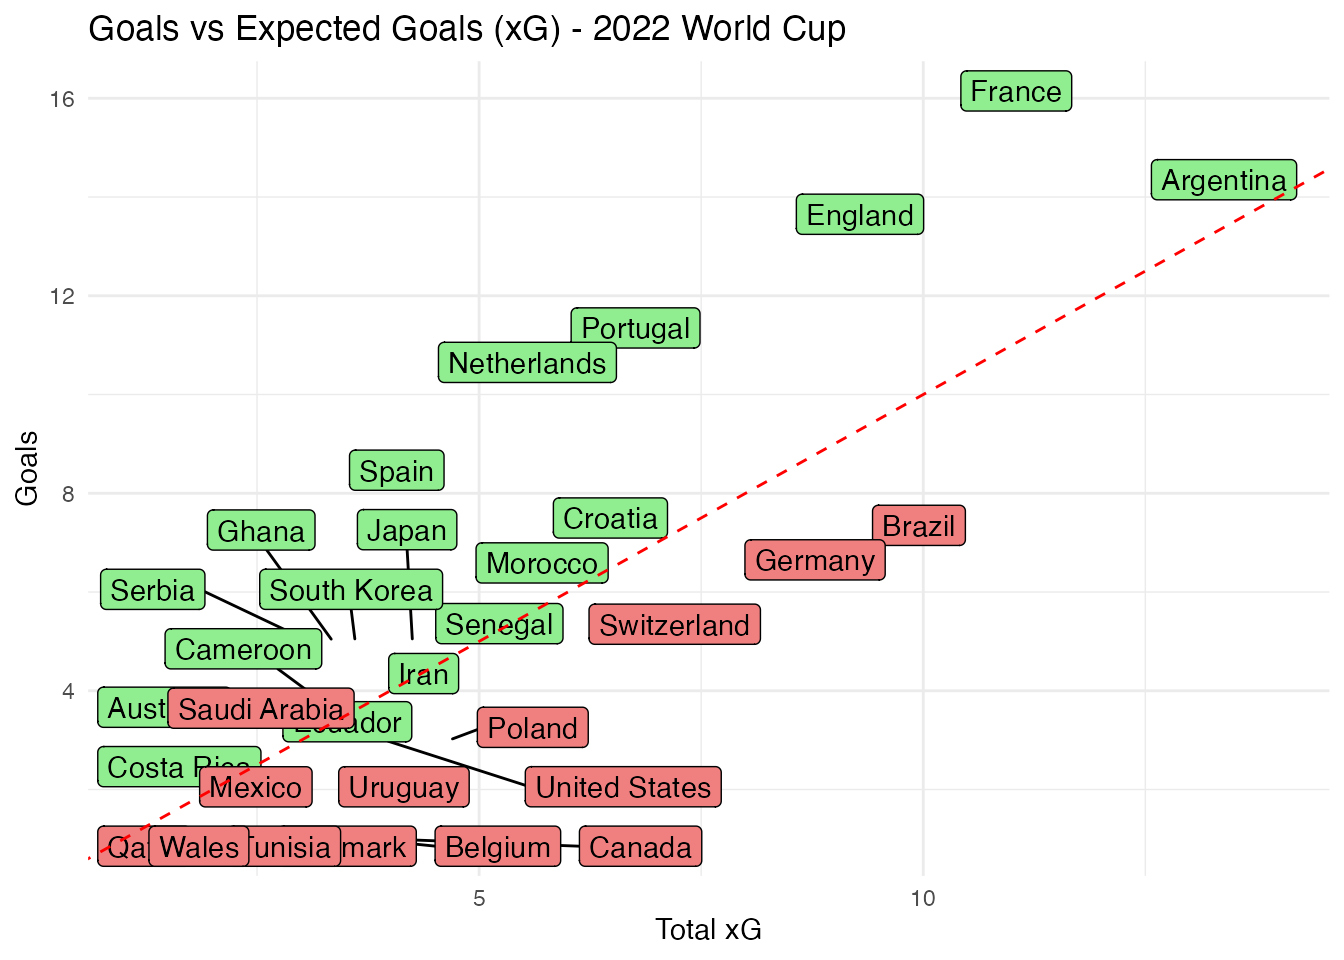
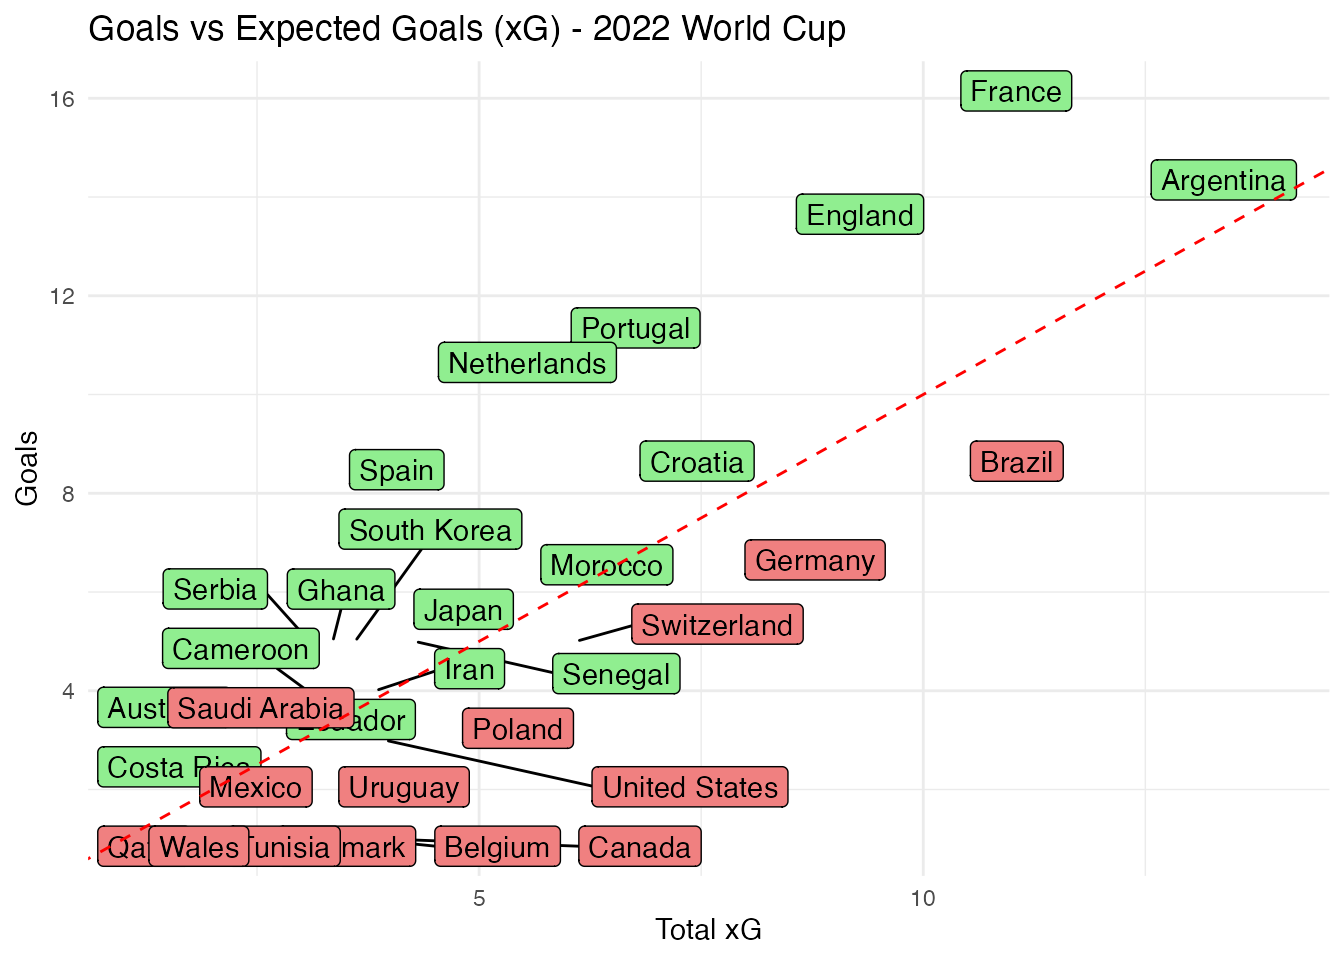
refactor: make some visual adjustments

diff --git a/assets/styles.scss b/assets/styles.scss
@@ -10,3 +10,17 @@
 .navbar .bi-translate + .menu-text {
   font-weight: 600;
 }
+
+.navbar-brand .navbar-logo {
+  height: 36px;
+  max-height: 36px;
+  border-radius: 6px;
+}
+
+div.quarto-post .listing-categories {
+  margin-top: 0.5rem;
+
+  .listing-category {
+    font-size: 0.55em;
+  }
+}

diff --git a/README.md b/README.md
@@ -1,4 +1,4 @@
-# Dois-Zero · Two-Nil
+# 2–0 · Two-Nil
 
 Blog de análise de dados de futebol, principalmente em R, feito com
 [Quarto](https://quarto.org). Bilíngue: português (padrão) e inglês.
@@ -9,12 +9,12 @@ Blog de análise de dados de futebol, principalmente em R, feito com
 ## Estrutura
 
 ```
-_quarto.yml          site em pt-BR (Dois-Zero) → _site/
+_quarto.yml          site em pt-BR (2–0) → _site/
 index.qmd            listagem de posts
 about.qmd
 posts/<slug>/index.qmd
 en/
-  _quarto.yml        site em inglês (Two-Nil) → _site/en/
+  _quarto.yml        site em inglês (2–0) → _site/en/
   index.qmd
   about.qmd
   posts/<slug>/index.qmd
